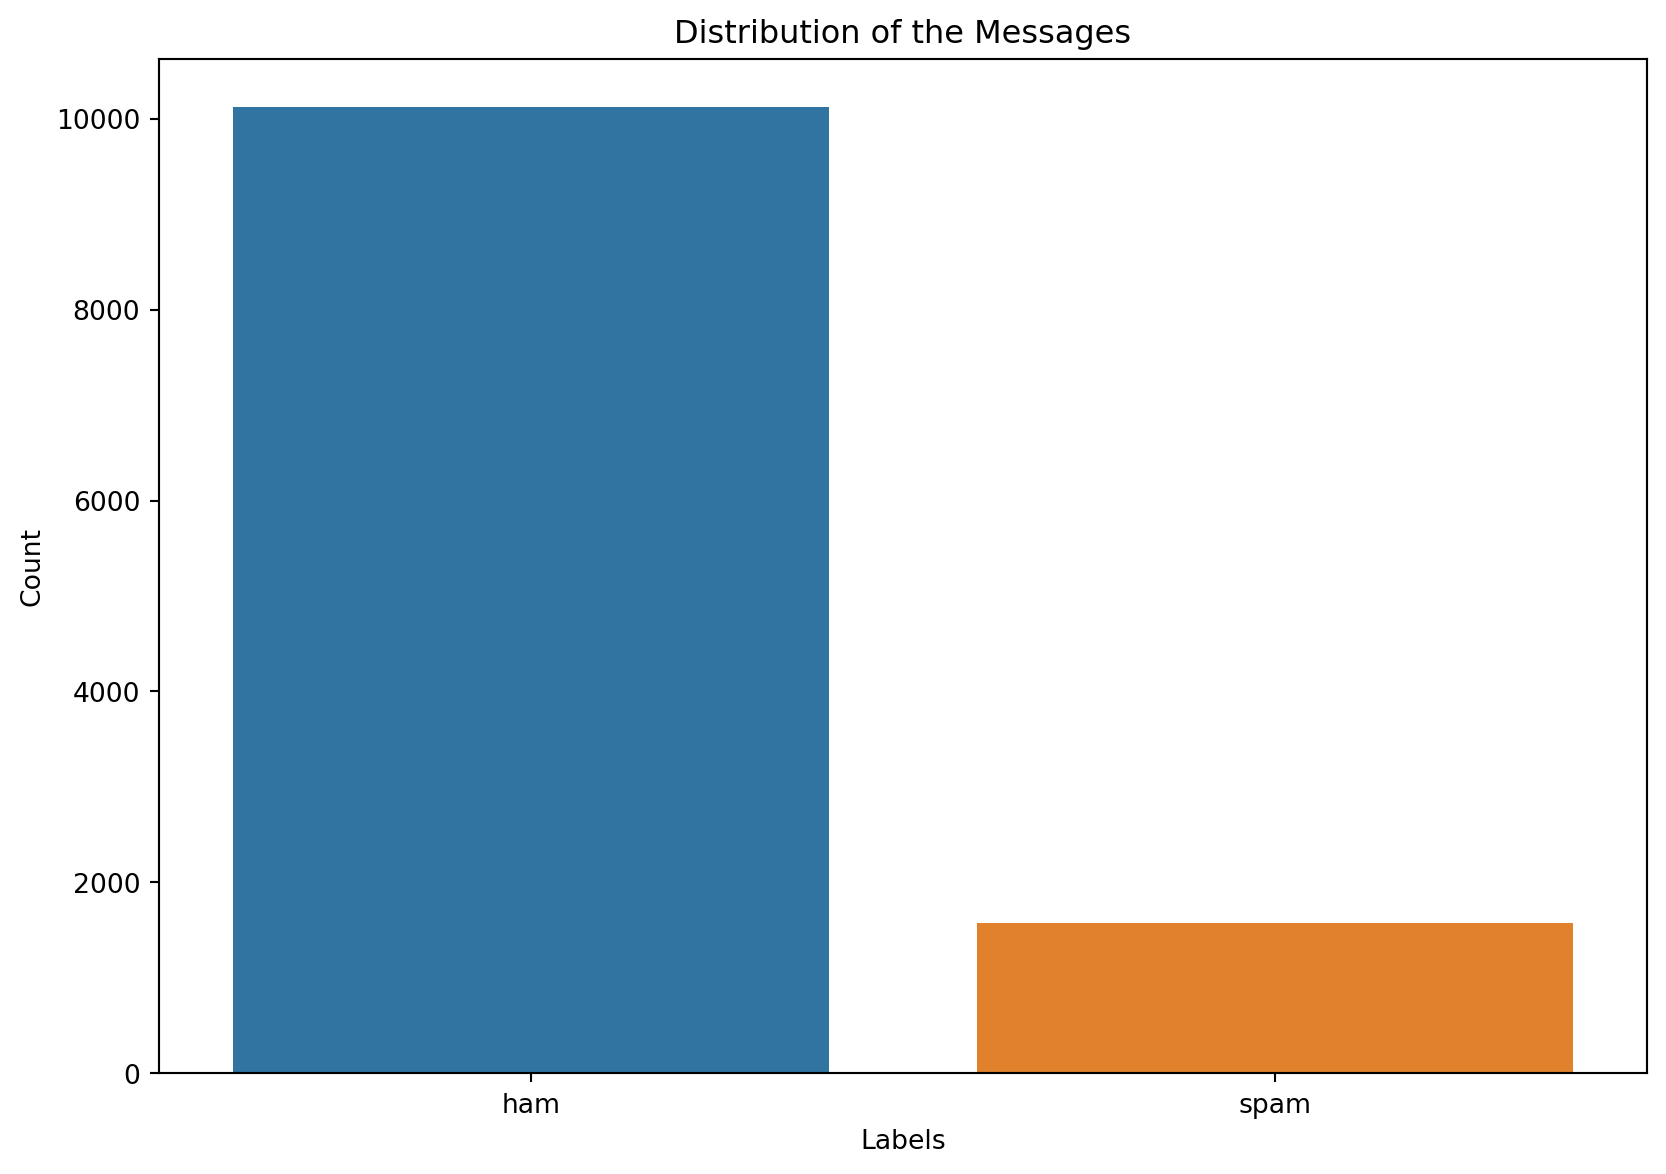
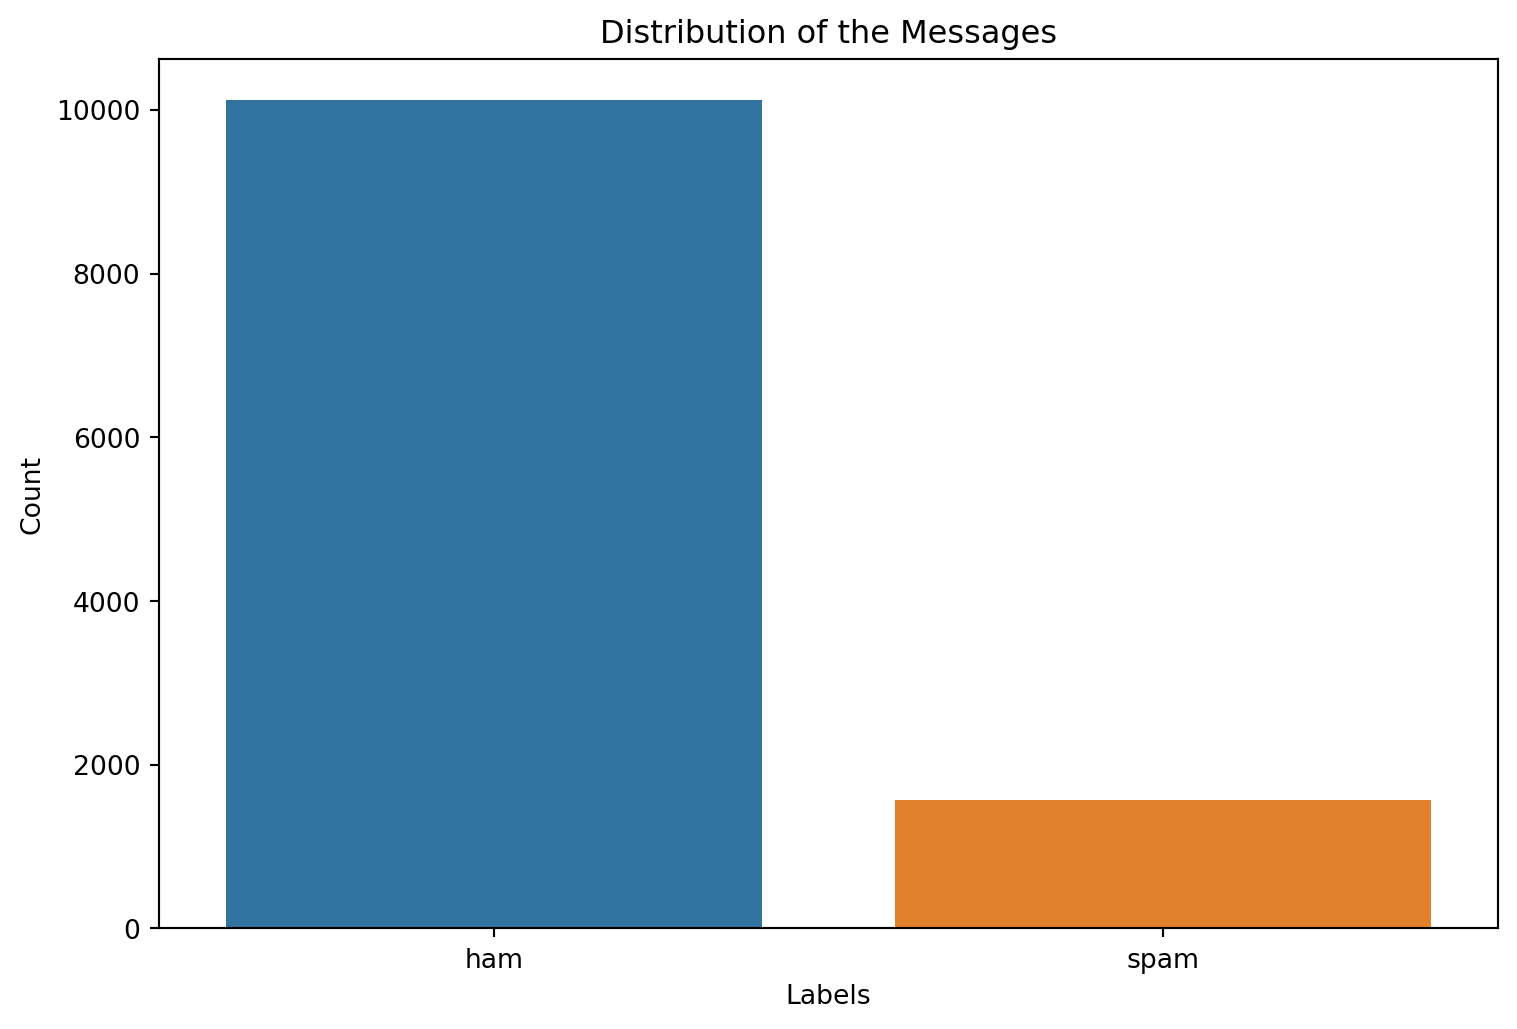
finalized capstone_report

diff --git a/reports/capstone_report/capstone_report.html b/reports/capstone_report/capstone_report.html
@@ -128,6 +128,8 @@ code span.wa { color: #60a0b0; font-weight: bold; font-style: italic; } /* Warni
   <li><a href="#model-conclusion" id="toc-model-conclusion" class="nav-link" data-scroll-target="#model-conclusion">Model Conclusion</a></li>
   </ul></li>
   <li><a href="#model-deployment" id="toc-model-deployment" class="nav-link" data-scroll-target="#model-deployment">Model Deployment</a></li>
+  <li><a href="#problems-associated-with-current-solution" id="toc-problems-associated-with-current-solution" class="nav-link" data-scroll-target="#problems-associated-with-current-solution">Problems Associated with Current Solution</a></li>
+  <li><a href="#future-development" id="toc-future-development" class="nav-link" data-scroll-target="#future-development">Future Development</a></li>
   <li><a href="#conclusion" id="toc-conclusion" class="nav-link" data-scroll-target="#conclusion">Conclusion</a></li>
   </ul>
 </nav>
@@ -204,7 +206,7 @@ code span.wa { color: #60a0b0; font-weight: bold; font-style: italic; } /* Warni
 <details>
 <summary>Code</summary>
 <div class="sourceCode cell-code" id="cb1"><pre class="sourceCode python code-with-copy"><code class="sourceCode python"><span id="cb1-1"><a href="#cb1-1" aria-hidden="true" tabindex="-1"></a><span class="co"># plot the distribution of the examples in each class</span></span>
-<span id="cb1-2"><a href="#cb1-2" aria-hidden="true" tabindex="-1"></a>plt.figure(figsize<span class="op">=</span>(<span class="dv">10</span>,<span class="dv">7</span>))</span>
+<span id="cb1-2"><a href="#cb1-2" aria-hidden="true" tabindex="-1"></a>plt.figure(figsize<span class="op">=</span>(<span class="dv">9</span>,<span class="dv">6</span>))</span>
 <span id="cb1-3"><a href="#cb1-3" aria-hidden="true" tabindex="-1"></a>sns.countplot(x<span class="op">=</span><span class="st">'label'</span>, data<span class="op">=</span>sms_big)</span>
 <span id="cb1-4"><a href="#cb1-4" aria-hidden="true" tabindex="-1"></a></span>
 <span id="cb1-5"><a href="#cb1-5" aria-hidden="true" tabindex="-1"></a>plt.title(<span class="st">'Distribution of the Messages'</span>)</span>
@@ -215,7 +217,7 @@ code span.wa { color: #60a0b0; font-weight: bold; font-style: italic; } /* Warni
 <div class="cell-output cell-output-display">
 <div id="fig-class" class="quarto-figure quarto-figure-center anchored">
 <figure class="figure">
-<p><img src="capstone_report_files/figure-html/fig-class-output-1.png" width="833" height="587" class="figure-img"></p>
+<p><img src="capstone_report_files/figure-html/fig-class-output-1.png" width="759" height="515" class="figure-img"></p>
 <p></p><figcaption aria-hidden="true" class="figure-caption">Figure 1: The imbalance between the 2 classes</figcaption><p></p>
 </figure>
 </div>
@@ -305,19 +307,19 @@ Vectorized version:
      0    0    0    0    0]]
 
 Embedded version:
-[[[ 0.04898497 -0.01979478  0.02217828 ... -0.0048638   0.03710017
-   -0.0137341 ]
-  [-0.03315722  0.01505386 -0.00147885 ...  0.0020563   0.00657374
-   -0.00327561]
-  [-0.02772429 -0.02913868 -0.00407239 ...  0.0012068   0.04175544
-   -0.03214341]
+[[[-0.04009664 -0.0182348   0.04175608 ...  0.01563163 -0.04268491
+   -0.00099881]
+  [-0.02363955  0.01625723 -0.03082242 ... -0.00070429 -0.0444646
+    0.00976185]
+  [-0.04665051 -0.00272837 -0.01892921 ... -0.00298215 -0.012444
+    0.0101974 ]
   ...
-  [-0.02788825  0.03206656 -0.03664351 ...  0.01791367  0.0136431
-   -0.00786297]
-  [-0.02788825  0.03206656 -0.03664351 ...  0.01791367  0.0136431
-   -0.00786297]
-  [-0.02788825  0.03206656 -0.03664351 ...  0.01791367  0.0136431
-   -0.00786297]]]</code></pre>
+  [ 0.01520063  0.00729283 -0.01572526 ... -0.01472719  0.0357582
+   -0.0234138 ]
+  [ 0.01520063  0.00729283 -0.01572526 ... -0.01472719  0.0357582
+   -0.0234138 ]
+  [ 0.01520063  0.00729283 -0.01572526 ... -0.01472719  0.0357582
+   -0.0234138 ]]]</code></pre>
 </div>
 </div>
 <p>Finally, we can now proceed to model development, as we have completed all the preprocessing necessary on our data.</p>
@@ -1120,9 +1122,27 @@ Model 6
 </ul>
 <p>For more info on the deployment implementation, see the <code>app</code> directory.</p>
 </section>
+<section id="problems-associated-with-current-solution" class="level2">
+<h2 class="anchored" data-anchor-id="problems-associated-with-current-solution">Problems Associated with Current Solution</h2>
+<p>As we can see from the performance of our model in classifying incoming messages in these Telegram chats, we notice that sometimes there are case were the model misclassifies a non-spam message for a spam message. This is due to several factors that have limited our model’s performance in such way, mainly include:</p>
+<ul>
+<li><strong>Unrepresentable Data</strong>: This is very probelmatic for our implementation, as the data that the model was trained on turned out to be not representable of the whole diversity and strucutre of the messages in sent by users in Telegram.</li>
+<li><strong>Not Enough Data</strong>: As we mentioned in data preprocessing phase, because we had this problem of class imbalance and we had the need to undersample our data to level it with out minority class, many examples were left out and were left with only very few training data compared to how we started with. As a result, our model could not successfully learn the distinguishable points between spam and not spam messages.</li>
+<li><strong>Nature of Spam Messages</strong>: As we can see in our modern day social media activity, we can all agree that the spam messages circulated between users and groupchats are not of consistent structure, and they tend to learn and improve their delivery of spam messages to further improve their chance of manipulating the user. It is quite hard to get hands on such data from various sources to ensure variability in the spam messages, and even harder in making our model keep up with the new types of spam messages.</li>
+</ul>
+</section>
+<section id="future-development" class="level2">
+<h2 class="anchored" data-anchor-id="future-development">Future Development</h2>
+<p>Despite the ups and downs of this project, there have been many new ideas and thoughts in mind throughout the development phase (raises some ethical concerns):</p>
+<ul>
+<li><strong>Scraping Messages for new Training Data in Telegram Groupchats</strong>: One of the main problems in this project was that the data acquired did not really match the structure of the messages sent in Telegram chats. As a result, to fix this for future needs, having a data purely from Telegram groupchats will definitely improve the model performance. However, before scraping the messages from any groupchats, the members should be notified of such action, and their permission must be given to commence such operation.</li>
+<li><strong>Storing Successfully Predicted Messages in a Data Warehouse</strong>: Instead of having to go through the ethical concerns with scraping data from Telegram groupchats, we can make the deployed Bot in a groupchat store the successful predicted spam messages in some place like a data warehouse (csv file, on the cloud), where we can later use this set of data to better optimize our model’s performance.</li>
+<li><strong>Improving the Handling of Spam by the Bot</strong>: The current handling is done through giving warnings to potential spam senders, and banning them once a 3rd warning is issued. Hoever, this handling could be further improved through just flagging the message as spam, and if checked by the admins of the groupchat and confirmed to be spam, then by a single command we can have the Bot ban the user and therefore get rid of the spam messages.</li>
+</ul>
+</section>
 <section id="conclusion" class="level2">
 <h2 class="anchored" data-anchor-id="conclusion">Conclusion</h2>
-<p>In conclusion,</p>
+<p>In conclusion, the journey from acquiring the data from various sources in order to increase model’s overall performance, to deploying a working ML model implemented in a Telegram Bot to a groupchat, resulted in meeting the expectations that were set out from the start for this project. Despite the problems associated with the low data used due to the heavily class imbalance, and the possible improper classification due to the unrepresentable data, the project is still of viable and use, and with more work and future development on the data and handling of spam by the Bot, the project could easily step up its performance to go beyoned and exceed epxectations of the project.</p>
 </section>
 
 </main>
